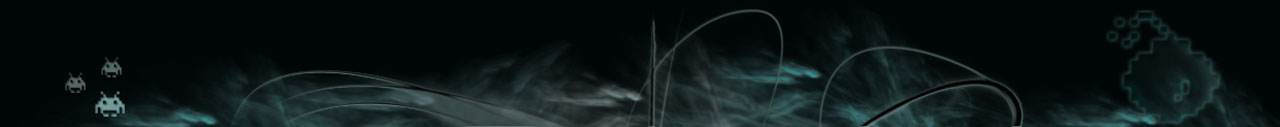
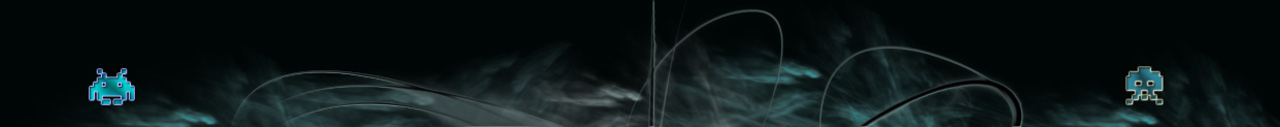
Added animation + new top + new footer + latest psd file
- animations
- main
- css
- top_bg.jpg
- flat3.psd
- footer_bg.jpg

diff --git a/Website/AtariLegend/templates/0/css/style.css b/Website/AtariLegend/templates/0/css/style.css
@@ -68,6 +68,96 @@ footer, header, hgroup, menu, nav, section {
 		float: right;
 		}			
 
+		/* animation */
+#animation {
+    position: relative;
+	-webkit-animation-name: STcharacters;
+	animation-name: STcharacters;
+	-webkit-animation-duration: 20s;
+	animation-duration: 20s;
+	-webkit-animation-iteration-count: infinite;
+	animation-iteration-count: infinite;
+	-webkit-animation-timing-function: linear;
+	animation-timing-function: linear;
+}
+
+@-webkit-keyframes STcharacters {
+    0% {
+        top: 145px;
+		left: -20%;
+		opacity: 0;}	
+	
+	10% { opacity: 1;}
+	70% { opacity: 1;}
+	
+	100% {
+        top: 145px;
+		left: 45%;
+		opacity: 0;
+    }
+}
+@keyframes STcharacters {
+    0% {
+        top:145px;
+		left: -20%;
+		opacity: 0;}		
+		
+	10% { opacity: 1;}
+	70% { opacity: 1;}
+    	
+    100% {
+        top:145px;
+		left: 45%;
+		opacity: 0;
+    }
+}
+
+#animation_vert{ position: relative;
+	-webkit-animation-name: STcharacters_vert;
+	animation-name: STcharacters_vert;
+	-webkit-animation-duration: 10s;
+	animation-duration: 10s;
+	-webkit-animation-iteration-count: infinite;
+	animation-iteration-count: infinite;
+	-webkit-animation-timing-function: linear;
+	animation-timing-function: linear;
+}
+
+@-webkit-keyframes STcharacters_vert {
+    0% {
+        top: 145px;
+		left: -5%;
+		opacity: 0;}	
+	
+	10% { opacity: 1;}
+	70% { opacity: 1;
+	left: 0%;}
+	
+	100% {
+        top:10px;
+		left: 5%;
+		opacity: 0;
+    }
+}
+@keyframes STcharacters_vert {
+    0% {
+        top:145px;
+		left: -5%;
+		opacity: 0;}		
+		
+	10% { opacity: 1;}
+	70% { opacity: 1;
+	left: 0%;}
+    	
+    100% {
+        top:10px;
+		left: 5%;
+		opacity: 0;
+    }
+}
+
+
+
 /* at a resolution of max 480 (smartphones) we want a smaller logo with border */		
 @media screen and (max-width: 480px) { 
 	.container { width: 15%; } 

diff --git a/Website/AtariLegend/templates/0/main.html b/Website/AtariLegend/templates/0/main.html
@@ -89,6 +89,12 @@
 					<div id="right">
 						<img src="../templates/0/images/top_bee.png" alt="bee" />
 					</div>
+					{assign var='number' value=1|rand:5}
+					{if $number is odd}
+					<img id="animation" src="../templates/0/images/animations/animation0{math equation='rand(1,5)'}.gif" alt="animation" />
+					{else}
+					<img id="animation_vert" src="../templates/0/images/animations/animation_vert0{math equation='rand(1,2)'}.gif" alt="animation" />
+					{/if}
 				</div>			
 				<nav>
 					<ul>
